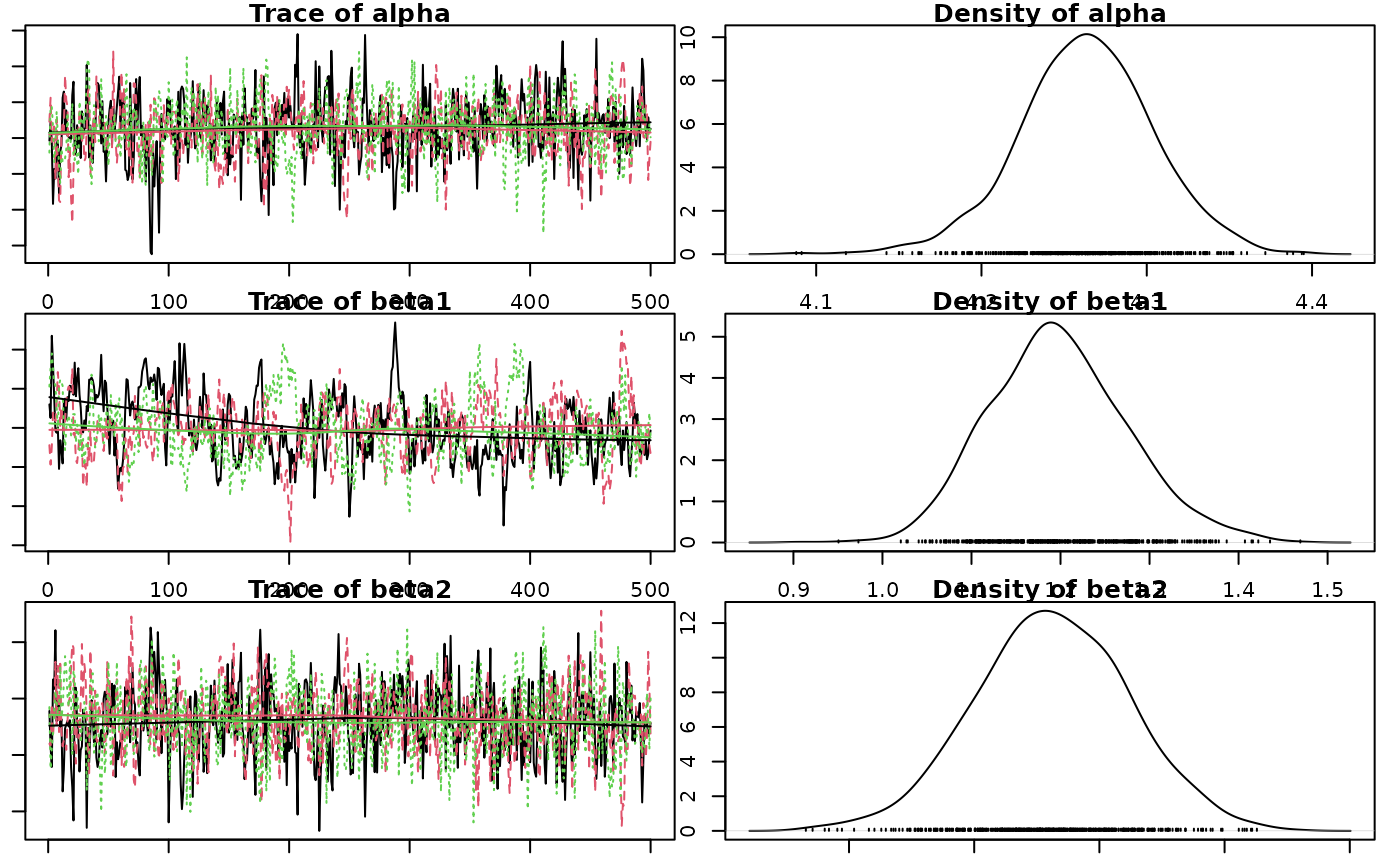
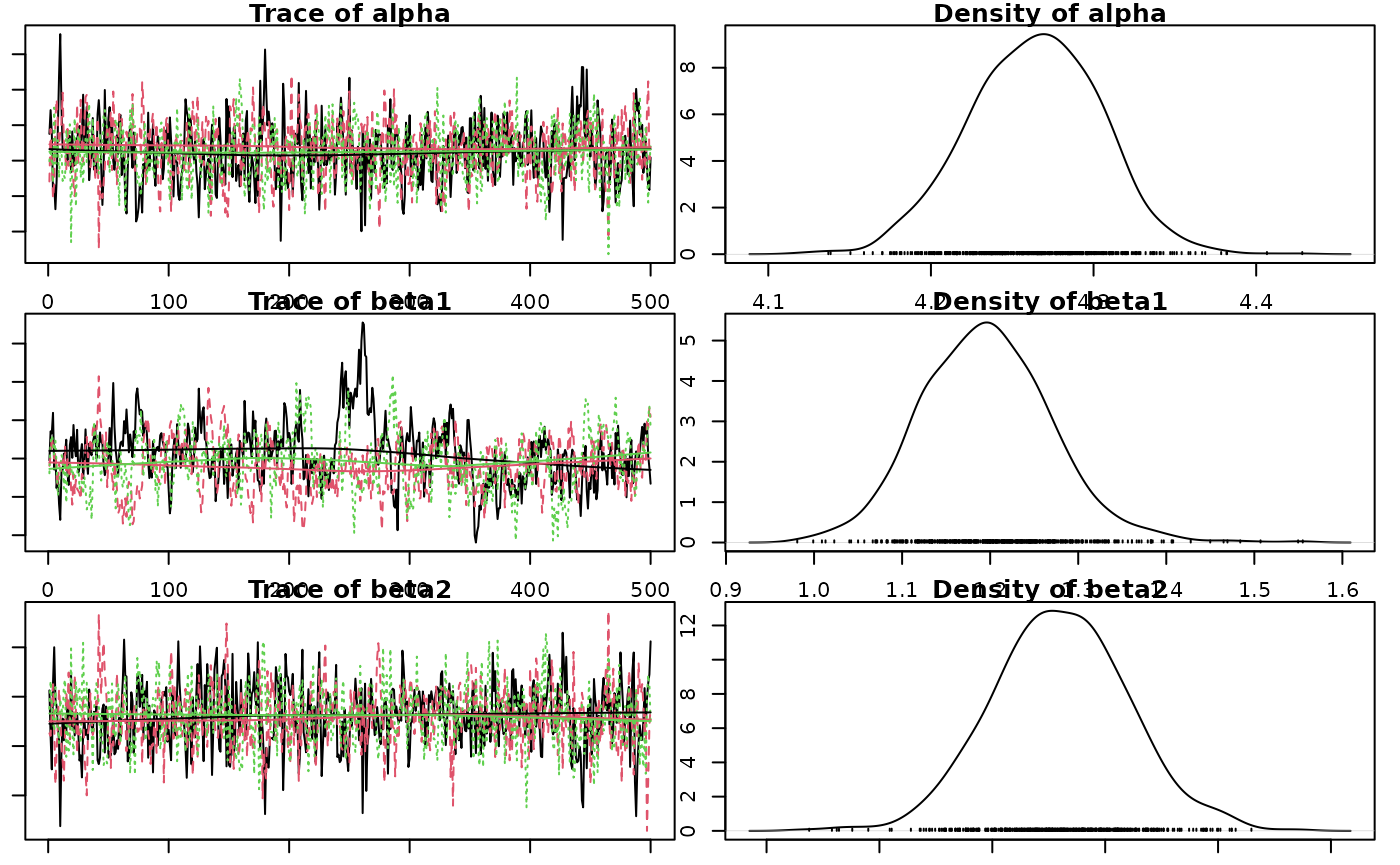
Deploying to gh-pages from @ poissonconsulting/jmbr@17bcb52368600569e406d94e49f96c3001d60f9b 🚀

diff --git a/articles/jmbr.html b/articles/jmbr.html
@@ -290,14 +290,14 @@ value and discarding all other values.</p>
 <span><span class="co">#&gt; <span style="color: #949494;"># A tibble: 1 × 8</span></span></span>
 <span><span class="co">#&gt;       n     K nchains niters nthin   ess  rhat converged</span></span>
 <span><span class="co">#&gt;   <span style="color: #949494; font-style: italic;">&lt;int&gt;</span> <span style="color: #949494; font-style: italic;">&lt;int&gt;</span>   <span style="color: #949494; font-style: italic;">&lt;int&gt;</span>  <span style="color: #949494; font-style: italic;">&lt;int&gt;</span> <span style="color: #949494; font-style: italic;">&lt;int&gt;</span> <span style="color: #949494; font-style: italic;">&lt;int&gt;</span> <span style="color: #949494; font-style: italic;">&lt;dbl&gt;</span> <span style="color: #949494; font-style: italic;">&lt;lgl&gt;</span>    </span></span>
-<span><span class="co">#&gt; <span style="color: #BCBCBC;">1</span>    40     6       3    500    10   171  1.02 TRUE</span></span>
+<span><span class="co">#&gt; <span style="color: #BCBCBC;">1</span>    40     6       3    500    10   190  1.03 TRUE</span></span>
 <span><span class="co">#&gt; Warning in value[[3L]](cond): beep() could not play the sound due to the following error:</span></span>
 <span><span class="co">#&gt; Error in play.default(x, rate, ...): no audio drivers are available</span></span>
 <span><span class="va">analysis</span> <span class="op">&lt;-</span> <span class="fu"><a href="https://rdrr.io/pkg/mbr/man/reanalyse.html" class="external-link">reanalyse</a></span><span class="op">(</span><span class="va">analysis</span><span class="op">)</span></span>
 <span><span class="co">#&gt; <span style="color: #949494;"># A tibble: 1 × 8</span></span></span>
 <span><span class="co">#&gt;       n     K nchains niters nthin   ess  rhat converged</span></span>
 <span><span class="co">#&gt;   <span style="color: #949494; font-style: italic;">&lt;int&gt;</span> <span style="color: #949494; font-style: italic;">&lt;int&gt;</span>   <span style="color: #949494; font-style: italic;">&lt;int&gt;</span>  <span style="color: #949494; font-style: italic;">&lt;int&gt;</span> <span style="color: #949494; font-style: italic;">&lt;int&gt;</span> <span style="color: #949494; font-style: italic;">&lt;int&gt;</span> <span style="color: #949494; font-style: italic;">&lt;dbl&gt;</span> <span style="color: #949494; font-style: italic;">&lt;lgl&gt;</span>    </span></span>
-<span><span class="co">#&gt; <span style="color: #BCBCBC;">1</span>    40     6       3    500    10   171  1.02 TRUE</span></span>
+<span><span class="co">#&gt; <span style="color: #BCBCBC;">1</span>    40     6       3    500    10   190  1.03 TRUE</span></span>
 <span><span class="co">#&gt; Warning in value[[3L]](cond): beep() could not play the sound due to the following error:</span></span>
 <span><span class="co">#&gt; Error in play.default(x, rate, ...): no audio drivers are available</span></span></code></pre></div>
 <p><strong>Analysis Table:</strong></p>
@@ -347,12 +347,12 @@ between- and within-chain estimates for model parameters.
 <span><span class="co">#&gt; <span style="color: #949494;"># A tibble: 6 × 7</span></span></span>
 <span><span class="co">#&gt;   term        estimate     sd  zscore   lower   upper   pvalue</span></span>
 <span><span class="co">#&gt;   <span style="color: #949494; font-style: italic;">&lt;term&gt;</span>         <span style="color: #949494; font-style: italic;">&lt;dbl&gt;</span>  <span style="color: #949494; font-style: italic;">&lt;dbl&gt;</span>   <span style="color: #949494; font-style: italic;">&lt;dbl&gt;</span>   <span style="color: #949494; font-style: italic;">&lt;dbl&gt;</span>   <span style="color: #949494; font-style: italic;">&lt;dbl&gt;</span>    <span style="color: #949494; font-style: italic;">&lt;dbl&gt;</span></span></span>
-<span><span class="co">#&gt; <span style="color: #BCBCBC;">1</span> alpha         4.26   0.040<span style="text-decoration: underline;">8</span> 104.     4.18    4.34   0.000<span style="text-decoration: underline;">666</span></span></span>
-<span><span class="co">#&gt; <span style="color: #BCBCBC;">2</span> beta1         1.19   0.077<span style="text-decoration: underline;">2</span>  15.5    1.06    1.36   0.000<span style="text-decoration: underline;">666</span></span></span>
-<span><span class="co">#&gt; <span style="color: #BCBCBC;">3</span> beta2        -<span style="color: #BB0000;">0.019</span><span style="color: #BB0000; text-decoration: underline;">2</span> 0.030<span style="text-decoration: underline;">6</span>  -<span style="color: #BB0000;">0.623</span> -<span style="color: #BB0000;">0.081</span><span style="color: #BB0000; text-decoration: underline;">1</span>  0.040<span style="text-decoration: underline;">8</span> 0.547   </span></span>
-<span><span class="co">#&gt; <span style="color: #BCBCBC;">4</span> beta3        -<span style="color: #BB0000;">0.273</span>  0.039<span style="text-decoration: underline;">5</span>  -<span style="color: #BB0000;">6.95</span>  -<span style="color: #BB0000;">0.354</span>  -<span style="color: #BB0000;">0.201</span>  0.000<span style="text-decoration: underline;">666</span></span></span>
-<span><span class="co">#&gt; <span style="color: #BCBCBC;">5</span> log_sAnnual  -<span style="color: #BB0000;">2.24</span>   0.291   -<span style="color: #BB0000;">7.76</span>  -<span style="color: #BB0000;">2.87</span>   -<span style="color: #BB0000;">1.78</span>   0.000<span style="text-decoration: underline;">666</span></span></span>
-<span><span class="co">#&gt; <span style="color: #BCBCBC;">6</span> sAnnual       0.106  0.030<span style="text-decoration: underline;">1</span>   3.61   0.056<span style="text-decoration: underline;">9</span>  0.169  0.000<span style="text-decoration: underline;">666</span></span></span></code></pre></div>
+<span><span class="co">#&gt; <span style="color: #BCBCBC;">1</span> alpha         4.26   0.040<span style="text-decoration: underline;">4</span> 106.     4.18    4.34   0.000<span style="text-decoration: underline;">666</span></span></span>
+<span><span class="co">#&gt; <span style="color: #BCBCBC;">2</span> beta1         1.20   0.074<span style="text-decoration: underline;">8</span>  16.0    1.06    1.35   0.000<span style="text-decoration: underline;">666</span></span></span>
+<span><span class="co">#&gt; <span style="color: #BCBCBC;">3</span> beta2        -<span style="color: #BB0000;">0.020</span><span style="color: #BB0000; text-decoration: underline;">1</span> 0.030<span style="text-decoration: underline;">3</span>  -<span style="color: #BB0000;">0.661</span> -<span style="color: #BB0000;">0.078</span><span style="color: #BB0000; text-decoration: underline;">1</span>  0.042<span style="text-decoration: underline;">9</span> 0.494   </span></span>
+<span><span class="co">#&gt; <span style="color: #BCBCBC;">4</span> beta3        -<span style="color: #BB0000;">0.272</span>  0.038<span style="text-decoration: underline;">5</span>  -<span style="color: #BB0000;">7.12</span>  -<span style="color: #BB0000;">0.354</span>  -<span style="color: #BB0000;">0.201</span>  0.000<span style="text-decoration: underline;">666</span></span></span>
+<span><span class="co">#&gt; <span style="color: #BCBCBC;">5</span> log_sAnnual  -<span style="color: #BB0000;">2.23</span>   0.389   -<span style="color: #BB0000;">5.87</span>  -<span style="color: #BB0000;">3.10</span>   -<span style="color: #BB0000;">1.73</span>   0.000<span style="text-decoration: underline;">666</span></span></span>
+<span><span class="co">#&gt; <span style="color: #BCBCBC;">6</span> sAnnual       0.107  0.032<span style="text-decoration: underline;">7</span>   3.31   0.044<span style="text-decoration: underline;">9</span>  0.177  0.000<span style="text-decoration: underline;">666</span></span></span></code></pre></div>
 <p>The estimate is the <strong>median</strong> by default.</p>
 <p>The zscore is <span class="math inline">\(mean / sd\)</span>.</p>
 <div class="sourceCode" id="cb12"><pre class="downlit sourceCode r">
@@ -360,12 +360,12 @@ between- and within-chain estimates for model parameters.
 <span><span class="co">#&gt; <span style="color: #949494;"># A tibble: 6 × 5</span></span></span>
 <span><span class="co">#&gt;   term        estimate   lower   upper svalue</span></span>
 <span><span class="co">#&gt;   <span style="color: #949494; font-style: italic;">&lt;term&gt;</span>         <span style="color: #949494; font-style: italic;">&lt;dbl&gt;</span>   <span style="color: #949494; font-style: italic;">&lt;dbl&gt;</span>   <span style="color: #949494; font-style: italic;">&lt;dbl&gt;</span>  <span style="color: #949494; font-style: italic;">&lt;dbl&gt;</span></span></span>
-<span><span class="co">#&gt; <span style="color: #BCBCBC;">1</span> alpha         4.26    4.18    4.34   10.6  </span></span>
-<span><span class="co">#&gt; <span style="color: #BCBCBC;">2</span> beta1         1.19    1.06    1.36   10.6  </span></span>
-<span><span class="co">#&gt; <span style="color: #BCBCBC;">3</span> beta2        -<span style="color: #BB0000;">0.019</span><span style="color: #BB0000; text-decoration: underline;">2</span> -<span style="color: #BB0000;">0.081</span><span style="color: #BB0000; text-decoration: underline;">1</span>  0.040<span style="text-decoration: underline;">8</span>  0.870</span></span>
-<span><span class="co">#&gt; <span style="color: #BCBCBC;">4</span> beta3        -<span style="color: #BB0000;">0.273</span>  -<span style="color: #BB0000;">0.354</span>  -<span style="color: #BB0000;">0.201</span>  10.6  </span></span>
-<span><span class="co">#&gt; <span style="color: #BCBCBC;">5</span> log_sAnnual  -<span style="color: #BB0000;">2.24</span>   -<span style="color: #BB0000;">2.87</span>   -<span style="color: #BB0000;">1.78</span>   10.6  </span></span>
-<span><span class="co">#&gt; <span style="color: #BCBCBC;">6</span> sAnnual       0.106   0.056<span style="text-decoration: underline;">9</span>  0.169  10.6</span></span></code></pre></div>
+<span><span class="co">#&gt; <span style="color: #BCBCBC;">1</span> alpha         4.26    4.18    4.34    10.6 </span></span>
+<span><span class="co">#&gt; <span style="color: #BCBCBC;">2</span> beta1         1.20    1.06    1.35    10.6 </span></span>
+<span><span class="co">#&gt; <span style="color: #BCBCBC;">3</span> beta2        -<span style="color: #BB0000;">0.020</span><span style="color: #BB0000; text-decoration: underline;">1</span> -<span style="color: #BB0000;">0.078</span><span style="color: #BB0000; text-decoration: underline;">1</span>  0.042<span style="text-decoration: underline;">9</span>   1.02</span></span>
+<span><span class="co">#&gt; <span style="color: #BCBCBC;">4</span> beta3        -<span style="color: #BB0000;">0.272</span>  -<span style="color: #BB0000;">0.354</span>  -<span style="color: #BB0000;">0.201</span>   10.6 </span></span>
+<span><span class="co">#&gt; <span style="color: #BCBCBC;">5</span> log_sAnnual  -<span style="color: #BB0000;">2.23</span>   -<span style="color: #BB0000;">3.10</span>   -<span style="color: #BB0000;">1.73</span>    10.6 </span></span>
+<span><span class="co">#&gt; <span style="color: #BCBCBC;">6</span> sAnnual       0.107   0.044<span style="text-decoration: underline;">9</span>  0.177   10.6</span></span></code></pre></div>
 <p>The s-value is the <strong>suprisal</strong> value, which is a
 measure of directionality with respect to zero.</p>
 <p>The s-value is zero (unsurprising) when <em>p-value</em> = 1.0 and

diff --git a/index.html b/index.html
@@ -128,22 +128,22 @@
 <span><span class="co">#&gt; # A tibble: 1 × 8</span></span>
 <span><span class="co">#&gt;       n     K nchains niters nthin   ess  rhat converged</span></span>
 <span><span class="co">#&gt;   &lt;int&gt; &lt;int&gt;   &lt;int&gt;  &lt;int&gt; &lt;int&gt; &lt;int&gt; &lt;dbl&gt; &lt;lgl&gt;    </span></span>
-<span><span class="co">#&gt; 1    40     5       3    500     1    16  13.1 FALSE</span></span>
+<span><span class="co">#&gt; 1    40     5       3    500     1     9  5.11 FALSE</span></span>
 <span><span class="va">analysis</span> <span class="op">&lt;-</span> <span class="fu"><a href="https://rdrr.io/pkg/mbr/man/reanalyse.html" class="external-link">reanalyse</a></span><span class="op">(</span><span class="va">analysis</span><span class="op">)</span></span>
 <span><span class="co">#&gt; # A tibble: 1 × 8</span></span>
 <span><span class="co">#&gt;       n     K nchains niters nthin   ess  rhat converged</span></span>
 <span><span class="co">#&gt;   &lt;int&gt; &lt;int&gt;   &lt;int&gt;  &lt;int&gt; &lt;int&gt; &lt;int&gt; &lt;dbl&gt; &lt;lgl&gt;    </span></span>
-<span><span class="co">#&gt; 1    40     5       3    500     2    24  3.06 FALSE</span></span>
+<span><span class="co">#&gt; 1    40     5       3    500     2    44  3.47 FALSE</span></span>
 <span></span>
 <span><span class="fu"><a href="https://rdrr.io/r/stats/coef.html" class="external-link">coef</a></span><span class="op">(</span><span class="va">analysis</span>, simplify <span class="op">=</span> <span class="cn">TRUE</span><span class="op">)</span></span>
 <span><span class="co">#&gt; # A tibble: 5 × 5</span></span>
-<span><span class="co">#&gt;   term        estimate   lower  upper svalue</span></span>
-<span><span class="co">#&gt;   &lt;term&gt;         &lt;dbl&gt;   &lt;dbl&gt;  &lt;dbl&gt;  &lt;dbl&gt;</span></span>
-<span><span class="co">#&gt; 1 alpha         4.24    1.65   4.36   10.6  </span></span>
-<span><span class="co">#&gt; 2 beta1         1.20   -0.0724 1.92    3.08 </span></span>
-<span><span class="co">#&gt; 3 beta2        -0.0142 -0.302  0.789   0.388</span></span>
-<span><span class="co">#&gt; 4 beta3        -0.281  -0.778  0.0792  2.84 </span></span>
-<span><span class="co">#&gt; 5 log_sAnnual  -2.04   -2.91   0.849   1.21</span></span>
+<span><span class="co">#&gt;   term        estimate  lower upper svalue</span></span>
+<span><span class="co">#&gt;   &lt;term&gt;         &lt;dbl&gt;  &lt;dbl&gt; &lt;dbl&gt;  &lt;dbl&gt;</span></span>
+<span><span class="co">#&gt; 1 alpha         4.25    3.05  4.35  10.6  </span></span>
+<span><span class="co">#&gt; 2 beta1         1.16   -1.13  1.33   1.55 </span></span>
+<span><span class="co">#&gt; 3 beta2        -0.0160 -0.205 0.419  0.520</span></span>
+<span><span class="co">#&gt; 4 beta3        -0.254  -0.338 0.768  1.35 </span></span>
+<span><span class="co">#&gt; 5 log_sAnnual  -2.10   -2.82  0.366  1.78</span></span>
 <span></span>
 <span><span class="fu"><a href="https://rdrr.io/r/graphics/plot.default.html" class="external-link">plot</a></span><span class="op">(</span><span class="va">analysis</span><span class="op">)</span></span></code></pre></div>
 <p><img src="tools/README-unnamed-chunk-3-1.png"><!-- --><img src="tools/README-unnamed-chunk-3-2.png"><!-- --></p>
